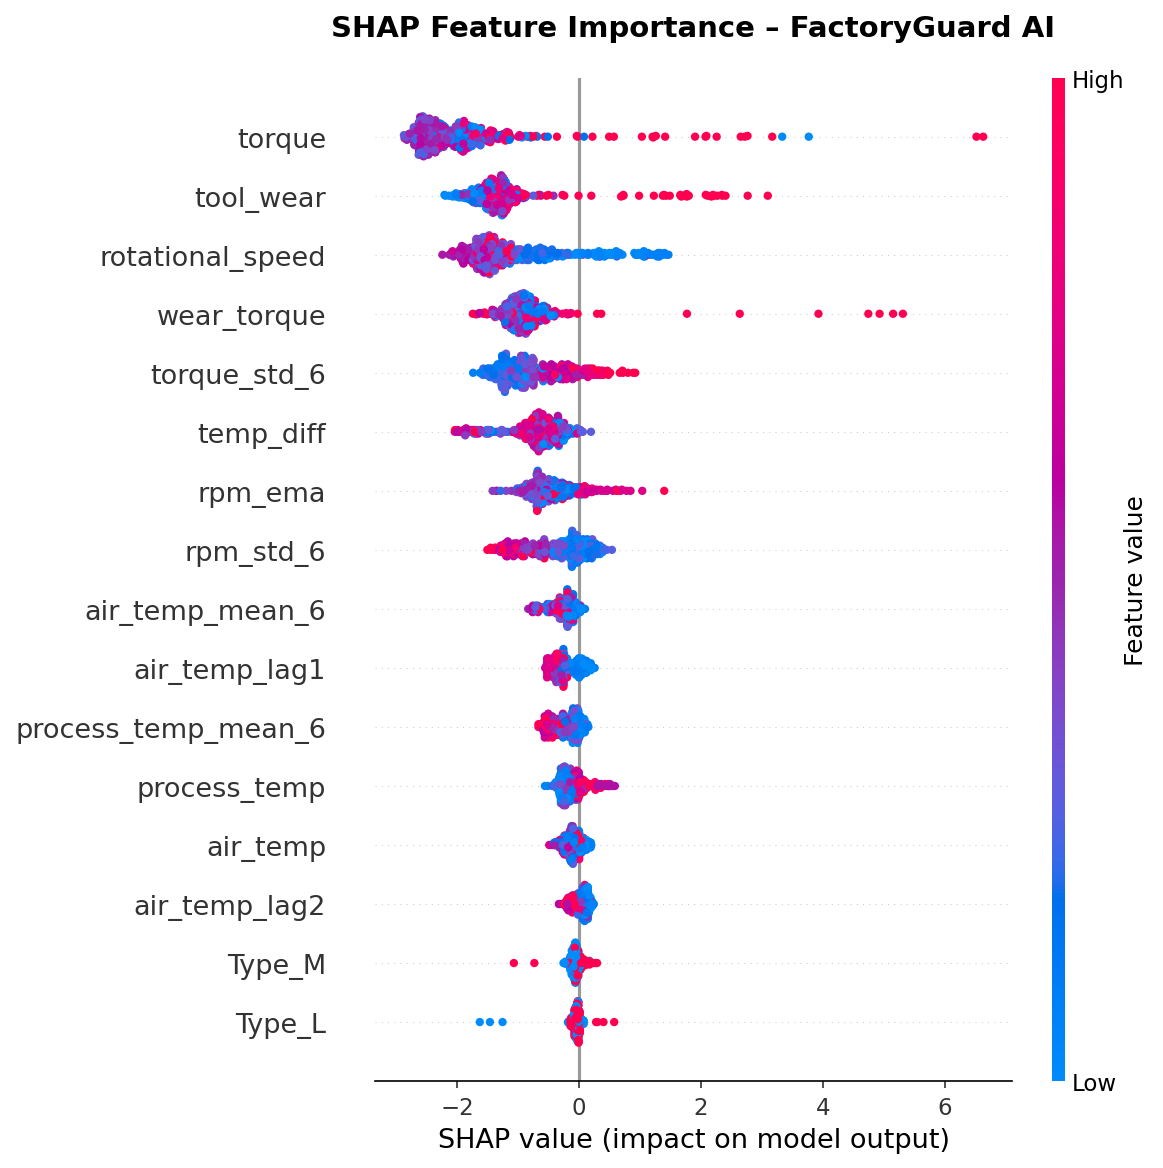
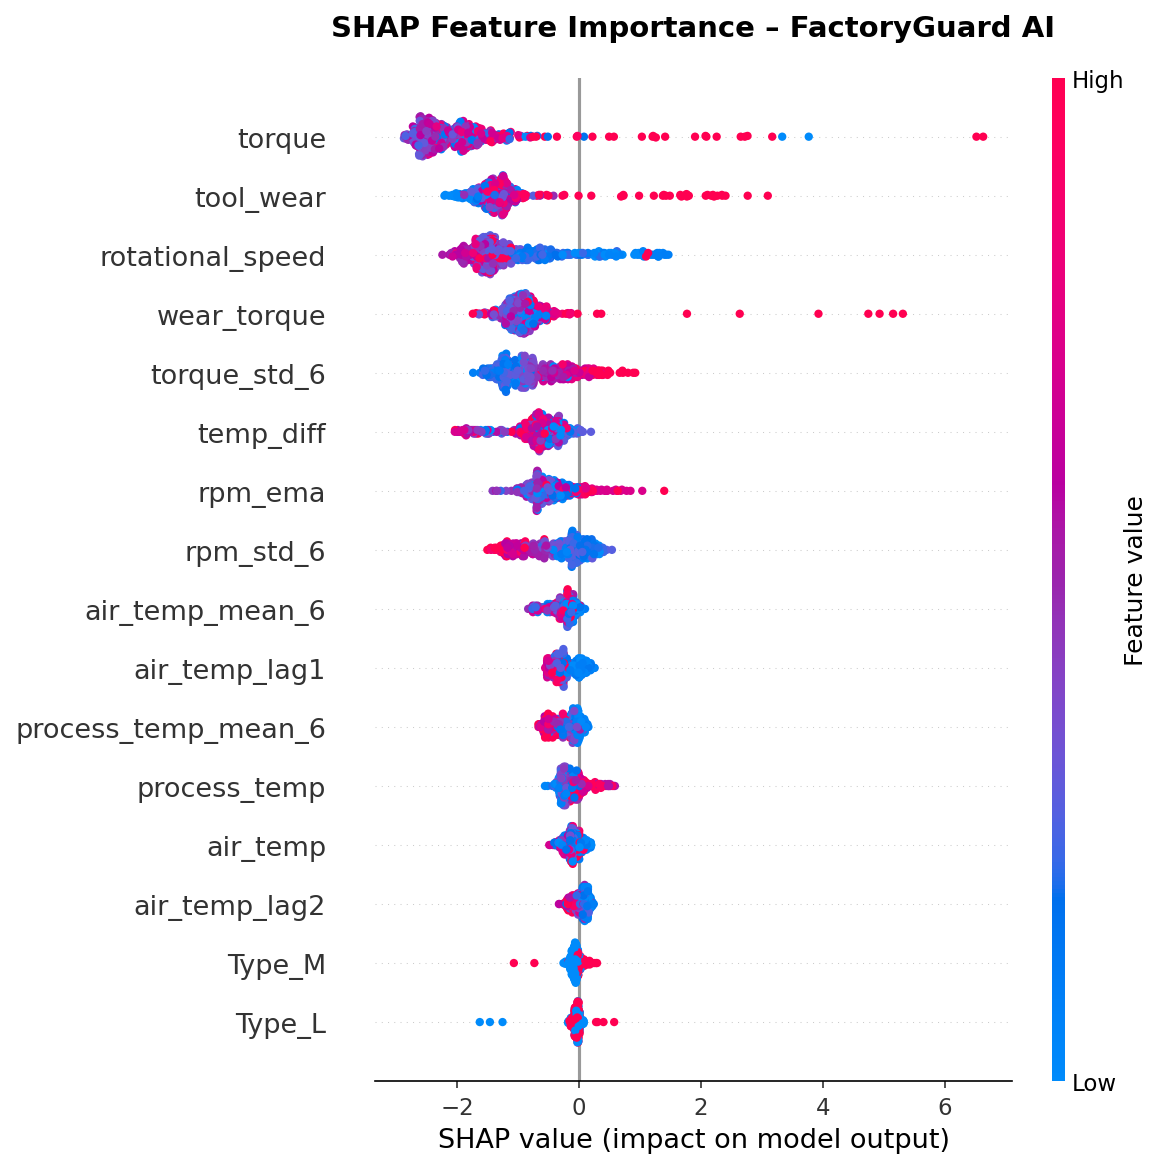
explainability

Changed region(s): [[0.3405, 0.0925, 0.5262, 0.7397], [0.4643, 0.7705, 0.5262, 0.8322], [0.4643, 0.863, 0.5262, 0.8938]]

diff --git a/static/js/dashboard.js b/static/js/dashboard.js
@@ -396,6 +396,19 @@ document.addEventListener('DOMContentLoaded', () => {
                         <td>${readings.tool_wear?.toFixed(1) || '-'}</td>
 
                         <td>
+                            ${
+                                machine.explanation && machine.explanation.length > 0
+                                ? machine.explanation.map(exp => `
+                                    <div style="margin-bottom:4px;">
+                                        <strong>${exp.feature}</strong>
+                                        (${exp.impact > 0 ? '+' : ''}${exp.impact})
+                                    </div>
+                                `).join('')
+                                : '<span style="opacity:0.6;">No explanation</span>'
+                            }
+                        </td>
+
+                        <td>
                             <button 
                                 class="btn btn-sm btn-danger"
                                 onclick="handleResolveClick(

diff --git a/templates/index.html b/templates/index.html
@@ -569,6 +569,7 @@
                                 <th>RPM</th>
                                 <th>Torque (Nm)</th>
                                 <th>Tool Wear</th>
+                                <th>Reason</th>
                                 <th>Action</th>
                             </tr>
                         </thead>

diff --git a/app.py b/app.py
@@ -13,6 +13,8 @@ import pandas as pd
 from flask import Flask, render_template, jsonify, request
 import joblib
 
+import shap
+
 # Path Setup 
 sys.path.insert(0, os.path.dirname(os.path.abspath(__file__)))
 
@@ -32,6 +34,7 @@ from src.config import (
 from src.prediction_logger import init_logger, get_logger
 from src.factory_health import FactoryHealthMonitor
 from src.database import get_database, init_db
+from src.explainability import explain_single_prediction
 
 # App Init 
 app = Flask(__name__, template_folder="templates", static_folder="static")
@@ -48,6 +51,7 @@ prediction_logger = init_logger("models")
 
 # Load Model Artifacts 
 model = joblib.load(BEST_MODEL_PATH)
+
 
 # Load ensemble models
 ensemble_models = {}
@@ -67,6 +71,14 @@ with open(BEST_PARAMS_PATH, "r") as f:
 feature_columns = metadata.get("feature_columns", [])
 model_name = metadata.get("best_model_name", "Unknown")
 model_prauc = metadata.get("pr_auc", 0)
+
+# Create SHAP explainer once globally
+try:
+    shap_explainer = shap.TreeExplainer(model)
+    logger.info("SHAP explainer initialized")
+except Exception as e:
+    shap_explainer = None
+    logger.warning(f"Failed to initialize SHAP explainer: {e}")
 
 # Load feature data for dashboard
 # df = pd.read_csv(FEATURES_DATA_PATH)
@@ -521,6 +533,51 @@ def get_machines_at_risk():
             
             # Keep only the first (most recent) occurrence per machine
             if machine_id not in machines_dict:
+                # Sensor values
+                sensor_values = {
+                    "air_temp": failure.get("air_temp", 0),
+                    "process_temp": failure.get("process_temp", 0),
+                    "rotational_speed": failure.get("rotational_speed", 0),
+                    "torque": failure.get("torque", 0),
+                    "tool_wear": failure.get("tool_wear", 0),
+                }
+
+                # Prepare ML input
+                input_data = {col: sensor_values.get(col, 0) for col in feature_columns}
+                input_df = pd.DataFrame([input_data])[feature_columns]
+
+                # Scale input
+                X_scaled = pd.DataFrame(
+                    scaler.transform(input_df),
+                    columns=feature_columns
+                )
+
+                # Generate SHAP explanation
+                shap_explanation = []
+
+                if shap_explainer is not None:
+                    try:
+                        explanation_df = explain_single_prediction(
+                            model,
+                            shap_explainer,
+                            X_scaled,
+                            feature_columns
+                        )
+
+                        # Top 3 important features
+                        top_features = explanation_df.head(3)
+
+                        shap_explanation = [
+                            {
+                                "feature": row["feature"],
+                                "impact": round(float(row["shap_value"]), 4)
+                            }
+                            for _, row in top_features.iterrows()
+                        ]
+
+                    except Exception as e:
+                        logger.warning(f"SHAP failed for {machine_id}: {e}")
+
                 machines_dict[machine_id] = {
                     "id": failure.get("id"),
                     "timestamp": failure.get("timestamp"),
@@ -528,13 +585,8 @@ def get_machines_at_risk():
                     "risk_level": failure.get("risk_level", "UNKNOWN"),
                     "avg_risk_score": failure.get("failure_probability", 0),
                     "max_risk_score": failure.get("failure_probability", 0),
-                    "recent_readings": {
-                        "air_temp": failure.get("air_temp", 0),
-                        "process_temp": failure.get("process_temp", 0),
-                        "rotational_speed": failure.get("rotational_speed", 0),
-                        "torque": failure.get("torque", 0),
-                        "tool_wear": failure.get("tool_wear", 0),
-                    }
+                    "recent_readings": sensor_values,
+                    "explanation": shap_explanation
                 }
         
         # Sort by highest risk first